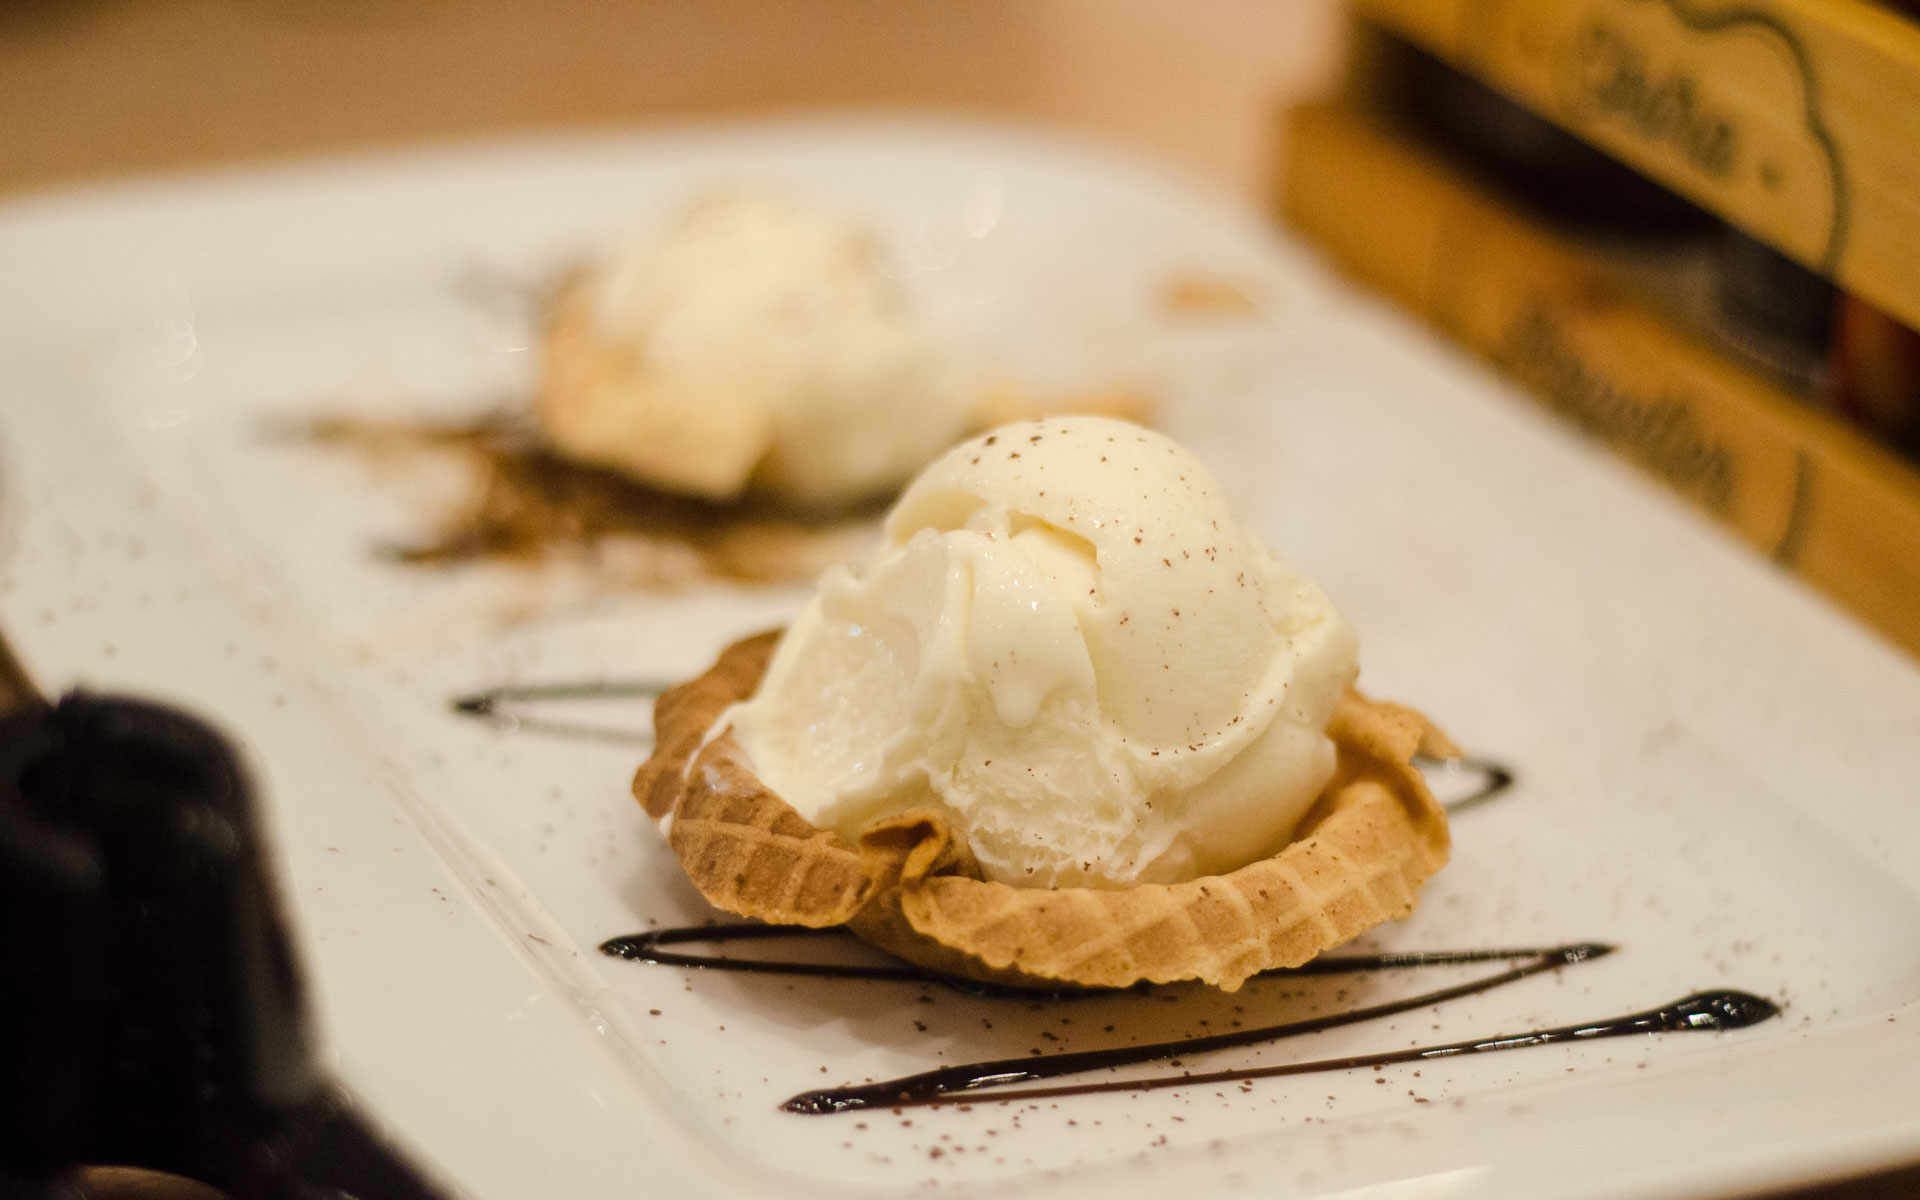
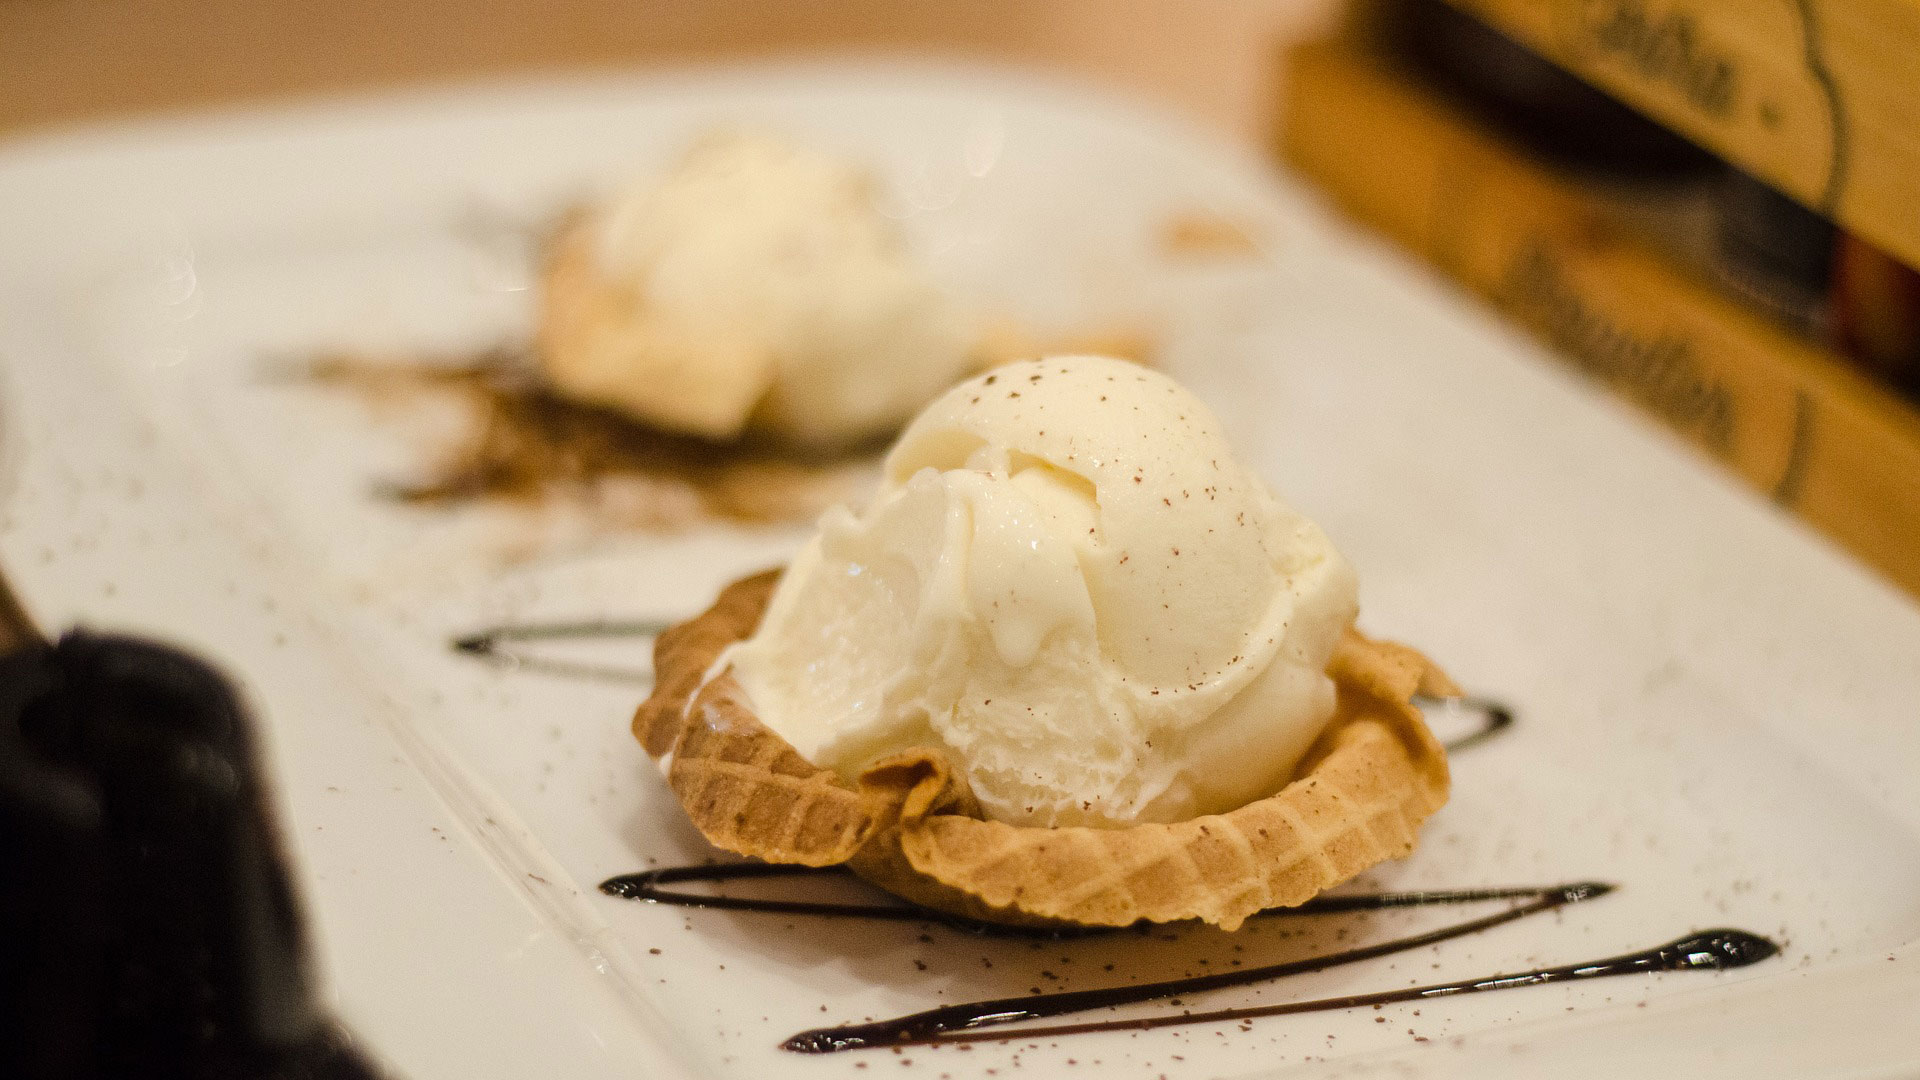
default header size to 1920x1080

diff --git a/inc/custom-header.php b/inc/custom-header.php
@@ -13,7 +13,7 @@ function vanilla_custom_header_setup() {
 	add_theme_support( 'custom-header', apply_filters( 'vanilla_custom_header_args', array(
 		'default-image'      => get_parent_theme_file_uri( '/assets/images/default-header.jpg' ),
 		'width'              => 1920,
-		'height'             => 1200,
+		'height'             => 1080,
 		'flex-height'        => true,
 		'video'              => true,
 		'default-text-color' => '#ffffff',
